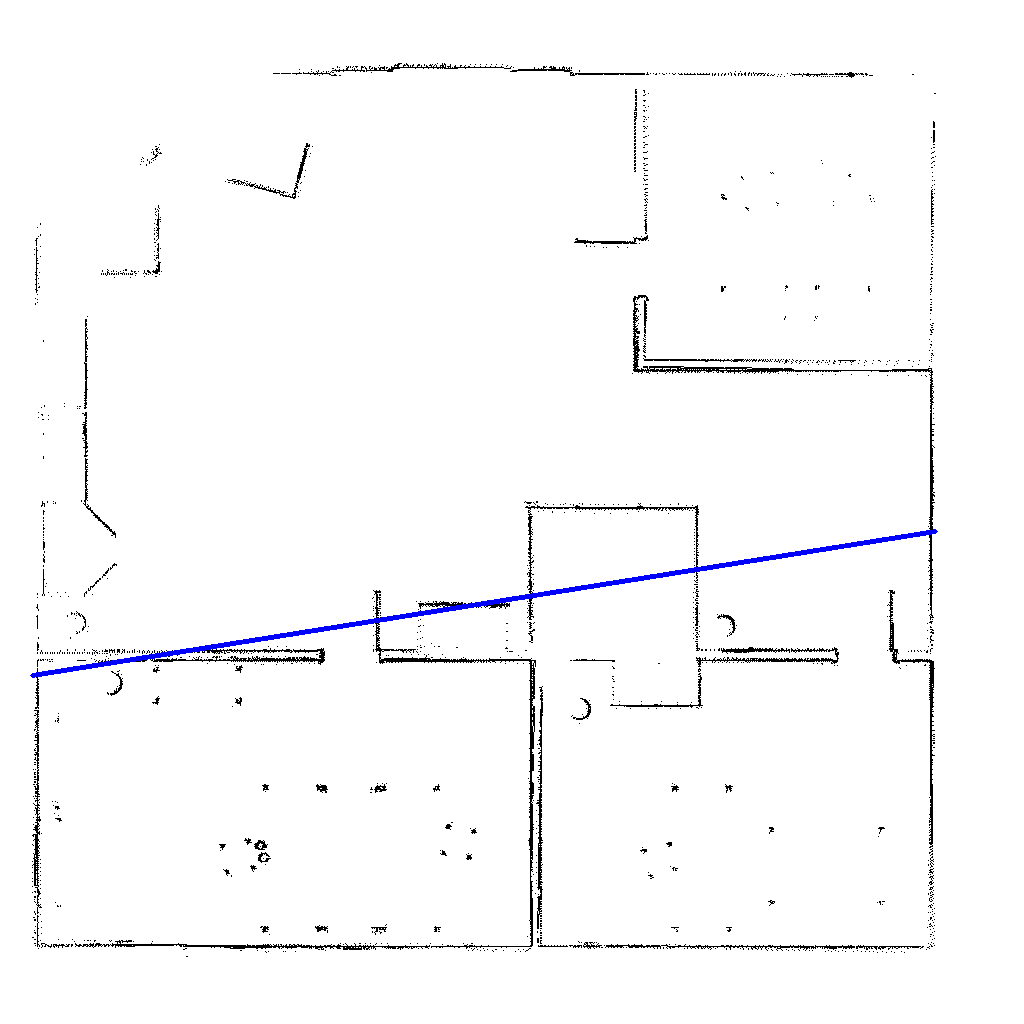
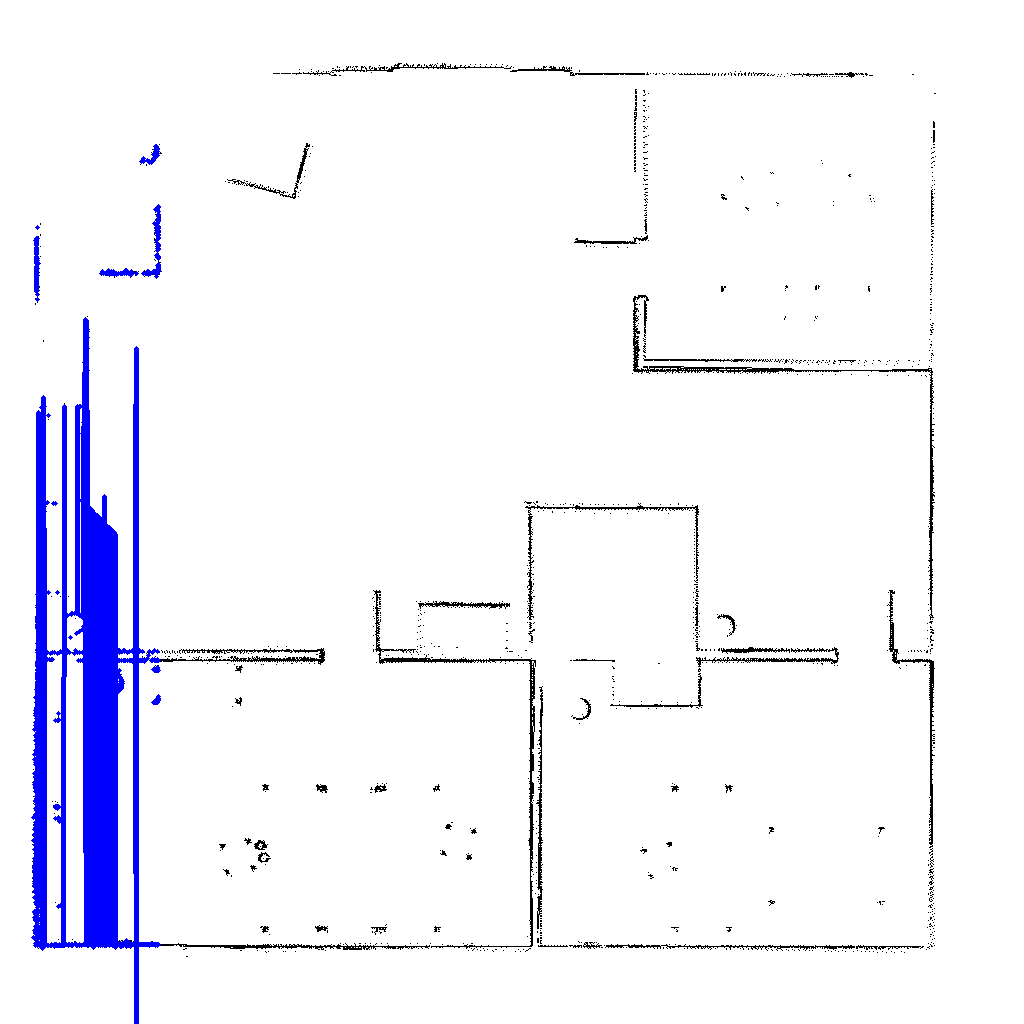
Added invalid implementation of split algorithm

diff --git a/feature_extraction.py b/feature_extraction.py
@@ -1,31 +1,61 @@
 import cv2
 import numpy as np
 
-def split(x_coord, y_coord, left_idx, right_idx, canvas):
+def split(points, left_idx, right_idx, canvas):
+    #print("points", points.shape)
+    print("Left:", left_idx, "Right:", right_idx)
     if right_idx <= left_idx:
+        #print("OOOOOOOOOOOOOOOOOOOOOOOOOOOOOOW")
         return
 
-    distance = np.zeros(shape=(1, len(x_coord)), dtype=np.float32)
-    norm_dist = np.zeros_like(distance)
+    distance = []
+    #norm_dist = np.zeros_like(distance)
+
+    analyzed_x_coords = points[left_idx:right_idx, 0]
+    #print("Analized coords:", analyzed_x_coords)
+    analyzed_y_coords = points[left_idx:right_idx, 1]
 
     #lines = cv2.HoughLinesP(plot_arr, 0.5, (np.pi/180.0), 100000)
-    A = np.vstack([x_coord, np.ones(len(x_coord))]).T
-    m, c = np.linalg.lstsq(A, y_coord, rcond=None)[0]
-    print(m, c)
-    print("Min y:", (np.min(x_coord*m) + c), "max y:", (np.max(x_coord*m) + c))
+    A = np.vstack([analyzed_x_coords, np.ones(len(analyzed_x_coords))]).T
+    m, c = np.linalg.lstsq(A, analyzed_y_coords, rcond=None)[0]
+    #print(m, c)
     denom = np.sqrt((m**2) + 1)
-    x_0 = int((1024/14)*(np.min(x_coord) + 6))
-    y_0 = 1024 - int((1024/14)*((np.min(x_coord*m) + c) + 8))
-    x_f = int((1024/14)*(np.max(x_coord) + 6))
-    y_f = 1024 - int((1024/14)*((np.max(x_coord*m) + c) + 8))
-    print("y_0:", y_0, "y_f:", y_f)
-    cv2.line(canvas, (x_0, y_0), (x_f, y_f), (255, 0, 0), 3)
 
-    for idx, element in enumerate(x_coord):
-        distance[0][idx] = np.abs((m * element) + y_coord[idx] + c)/denom
-    norm_dist = [distance/np.max(distance)]
-    print(norm_dist)
+    for idx, element in enumerate(analyzed_x_coords):
+        distance.append(np.abs((m * element) + analyzed_y_coords[idx] + c)/denom)
+    norm_dist = distance/np.max(distance)
 
+    pivot_idx = 0
+    pivot_val = 0
+    for idx, element in enumerate(norm_dist):
+        #print(element)
+        if element > pivot_val and element != 1:
+            pivot_val = element
+            pivot_idx = idx
+
+    pivot_idx += left_idx
+    #print("Pivot idx and value:", pivot_idx, pivot_val, np.max(norm_dist))
+
+    if pivot_val > 0.2:
+        split(points, left_idx, pivot_idx - 1, canvas)
+        split(points, pivot_idx + 1, right_idx, canvas)
+    else:
+        # draw line
+        print("@@@@@@@@@@@@@@@@@@@@@@@@@@@@@@@@@@@@@@@@@@@@@@@@@@@@@@@@")
+        x_0 = int((1024/14)*(np.min(analyzed_x_coords) + 6))
+        y_0 = 1024 - int((1024/14)*((np.min(analyzed_x_coords)*m + c) + 8))
+        x_f = int((1024/14)*(np.max(analyzed_x_coords) + 6))
+        y_f = 1024 - int((1024/14)*((np.max(analyzed_x_coords)*m + c) + 8))
+        cv2.line(canvas, (x_0, y_0), (x_f, y_f), (255, 0, 0), 3)
+        cv2.imwrite("features.png", canvas)
+
+    # print("Min y:", (np.min(x_coord*m) + c), "max y:", (np.max(x_coord*m) + c))
+    # x_0 = int((1024/14)*(np.min(x_coord) + 6))
+    # y_0 = 1024 - int((1024/14)*((np.min(x_coord*m) + c) + 8))
+    # x_f = int((1024/14)*(np.max(x_coord) + 6))
+    # y_f = 1024 - int((1024/14)*((np.max(x_coord*m) + c) + 8))
+    # print("y_0:", y_0, "y_f:", y_f)
+    # cv2.line(canvas, (x_0, y_0), (x_f, y_f), (255, 0, 0), 3)
 
 def main():
     data = np.load('ExtractedPoints.npy')
@@ -36,8 +66,10 @@ def main():
     for i, _ in enumerate(points):
         points[i] = [data[0][i], data[1][i]]
 
-    print("Mix x:", np.min(data[0]), "Max x:", np.max(data[0]))
+    points = points[points[:, 1].argsort()]
+    points = points[points[:, 0].argsort(kind='mergesort')]
 
+    print("Msix x:", np.min(data[0]), "Max x:", np.max(data[0]))
     plot_arr = np.full((1024, 1024, 3), 255, dtype=np.uint8)
     result = np.full((1024, 1024, 3), 255, dtype=np.uint8)
     #print(points[0][0], points[0][1])
@@ -50,14 +82,14 @@ def main():
         plot_arr[y][x][2] = 0
         #print(x, y)
 
-    points = points.reshape((-1, 1, 2))
+    #points = points.reshape((-1, 1, 2))
 
-    split(data[0], data[1], 0, len(data[0]), plot_arr)
+    split(points, 0, len(data[0]), plot_arr)
     #print("intersection_points")
 
-    cv2.imshow("Window", plot_arr)
-    cv2.waitKey(0)
-    cv2.imwrite("features.png", plot_arr)
+    # cv2.imshow("Window", plot_arr)
+    # cv2.waitKey(0)
+    # cv2.imwrite("features.png", plot_arr)
 
 if __name__ == '__main__':
     main()
